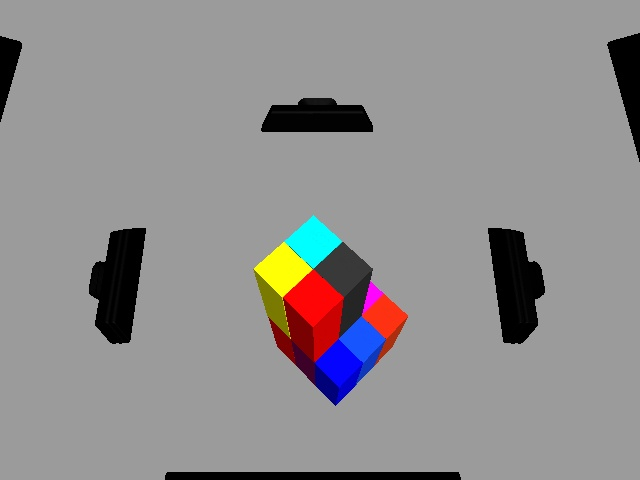
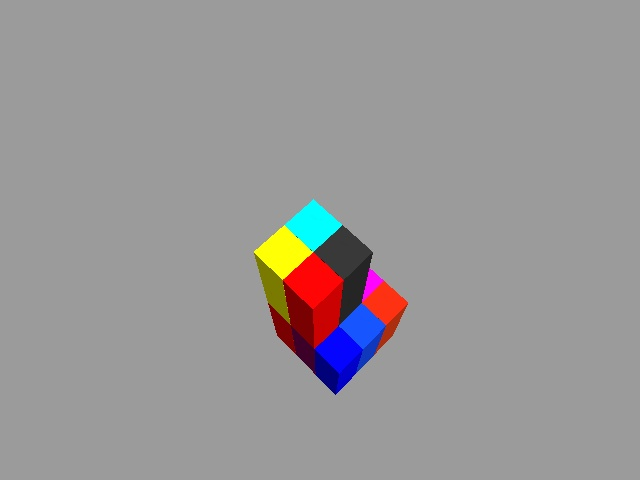
added code to move cameras around in world simulation

diff --git a/src/world_simulation/src/world_simulation.py b/src/world_simulation/src/world_simulation.py
@@ -19,14 +19,14 @@ import moveit_commander
 import constants as const
 from global_constants import constants as gconst, camera
 import utils
-import take_photos
+import take_photos as tp
 
 
 def main():
-    world_sim = WorldSimulation(gazebo_only=True, structure = False)
-    create_exploration_world(world_sim)
-    # world_sim = WorldSimulation(gazebo_only=True, structure = True)
-    # create_world_with_structure(world_sim)
+    # world_sim = WorldSimulation(gazebo_only=True, structure = False)
+    # create_exploration_world(world_sim)
+    world_sim = WorldSimulation(gazebo_only=True, structure = True)
+    create_world_with_structure(world_sim)
 
 
 def create_exploration_world(world_sim):
@@ -47,13 +47,32 @@ def worldsim_add_signal_block(position):
     world_sim.add_signal_block(Pose(position=position))
 
 def create_world_with_structure(world_sim):
-    for cam in camera.CAMERAS.items():
-        world_sim.add_camera(*cam)
     for square in gconst.STRUCTURE_TO_BUILD:
         square = list(square)
         square[-1] *= world_sim.block_size[2]
         world_sim.add_square_2d(*square)
-    take_photos.main()
+    #add first two cameras
+    print(camera.CAMERAS)
+    world_sim.add_camera("camera0", camera.CAMERAS["camera0"])
+    world_sim.add_camera("camera1", camera.CAMERAS["camera1"])
+    rospy.sleep(1)
+    tp.saveImage(camera.CameraDTO.IMAGE_TOPIC_TEMPLATE.format(0), camera.CameraDTO.IMAGE_SAVE_TEMPLATE.format(0))
+    tp.saveImage(camera.CameraDTO.IMAGE_TOPIC_TEMPLATE.format(1), camera.CameraDTO.IMAGE_SAVE_TEMPLATE.format(1))
+
+    for i in range(1, 12):
+        first_camera = "camera{}".format(i * 2)
+        second_camera = "camera{}".format(i * 2 + 1)
+        utils.move_camera_gazebo("camera0", camera.CAMERAS[first_camera])
+        utils.move_camera_gazebo("camera1", camera.CAMERAS[second_camera])
+        rospy.sleep(0.1)
+        tp.saveImage(camera.CameraDTO.IMAGE_TOPIC_TEMPLATE.format(0), camera.CameraDTO.IMAGE_SAVE_TEMPLATE.format(2 * i))
+        tp.saveImage(camera.CameraDTO.IMAGE_TOPIC_TEMPLATE.format(1), camera.CameraDTO.IMAGE_SAVE_TEMPLATE.format(2 * i + 1))
+
+    # for cam in camera.CAMERAS.items():
+    #     print(cam)
+    #     world_sim.add_camera(*cam)
+
+    # take_photos.main()
 
 class WorldSimulation:
     PACK_NAME = "world_simulation"

diff --git a/src/world_simulation/src/utils.py b/src/world_simulation/src/utils.py
@@ -1,6 +1,8 @@
 import rospy
 
 from gazebo_msgs.srv import SpawnModel
+from gazebo_msgs.msg import ModelState
+from gazebo_msgs.srv import SetModelState
 
 
 def get_content_between(s, start_flag, end_flag):
@@ -27,3 +29,16 @@ def add_block_gazebo(service_name, xml, pose, reference_frame, name):
         spawn(name, xml, "/", pose, reference_frame)
     except rospy.ServiceException, e:
         rospy.logerr("{} service call failed: {}".format(service_name, e))
+
+def move_camera_gazebo(name, pose):
+    state_msg = ModelState()
+    state_msg.model_name = name
+    state_msg.pose = pose
+
+    rospy.wait_for_service('/gazebo/set_model_state')
+    try:
+        set_state = rospy.ServiceProxy('/gazebo/set_model_state', SetModelState)
+        resp = set_state( state_msg )
+
+    except rospy.ServiceException, e:
+        print "Service call failed: %s" % e

diff --git a/src/world_simulation/src/take_photos.py b/src/world_simulation/src/take_photos.py
@@ -26,6 +26,12 @@ def main():
 
 def saveImage(topic, filename):
     imageData = rospy.wait_for_message(topic, Image)
+    oldData = imageData
+    while imageData == oldData:
+        print("data is the same as old data!")
+        imageData = rospy.wait_for_message(topic, Image)
+        rospy.sleep(0.01)
+
     image = bridge.imgmsg_to_cv2(imageData, desired_encoding='passthrough')
     cv.imwrite(filename, image)
     print("Saved image from {} to {}".format(topic, filename))
